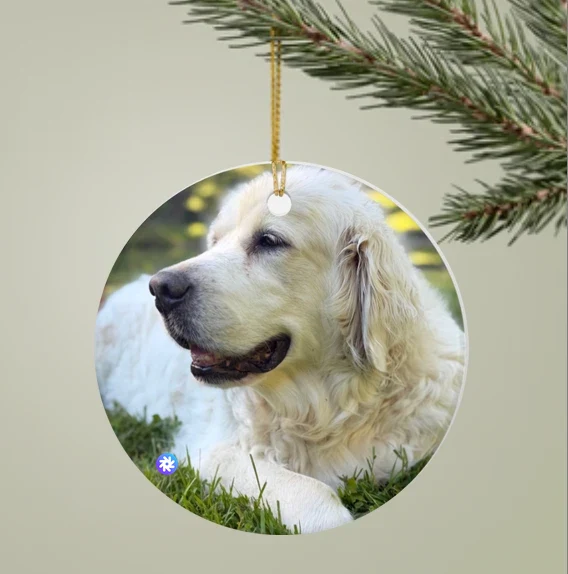
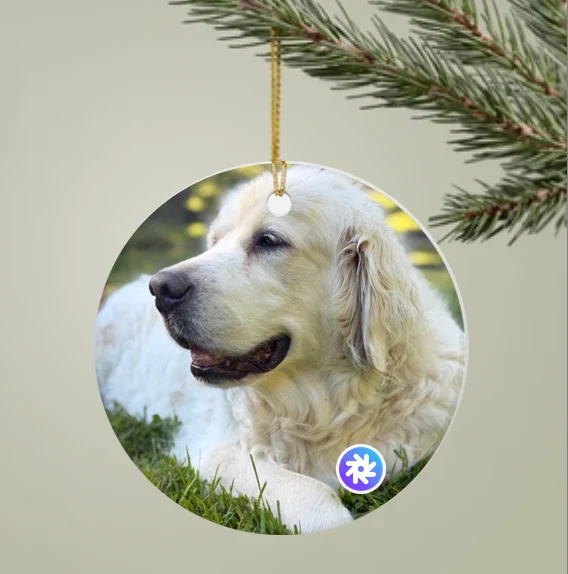
Scout's ornament: Popcode symbol twice the size, lower right, on a white ring
Per the user's mockup: 12% of the ornament's diameter (real orders use 6%),
centred at +0.44r, +0.64r from the ornament's centre, with a thin white
ring. Rebuilt from the clean photo, so the old lower-left symbol is gone.
Same on the home page photo, the printable PDF and its thumbnail.

Claude-Session: https://claude.ai/code/session_01BFL54nhDdXptuwEuvaVZL2

Changed region(s): [[0.5687, 0.77, 0.6884, 0.8589], [0.2694, 0.77, 0.3292, 0.8293]]

diff --git a/docs/STATUS.md b/docs/STATUS.md
@@ -67,8 +67,9 @@ happened and what's open. (Session history moved here from CLAUDE.md on
    to stay on info@. Tours and Studio now book via Calendly, not email.
 8. **Scout's ornament:** scan `/assets/scout-ornament.pdf` and the home-page
    ornament off a screen to confirm both trigger `popcode.app/scout`. The symbol
-   is lower **left** on Scout's (the user's call); real ornament orders print it
-   lower **right** — decide whether they should match.
+   on Scout's is lower right at **12%** of the diameter on a white ring (the
+   user's mockup, 2026-09-26); real orders print it at 6% — decide whether
+   orders should get the bigger symbol too.
 
 ## Session history
 
